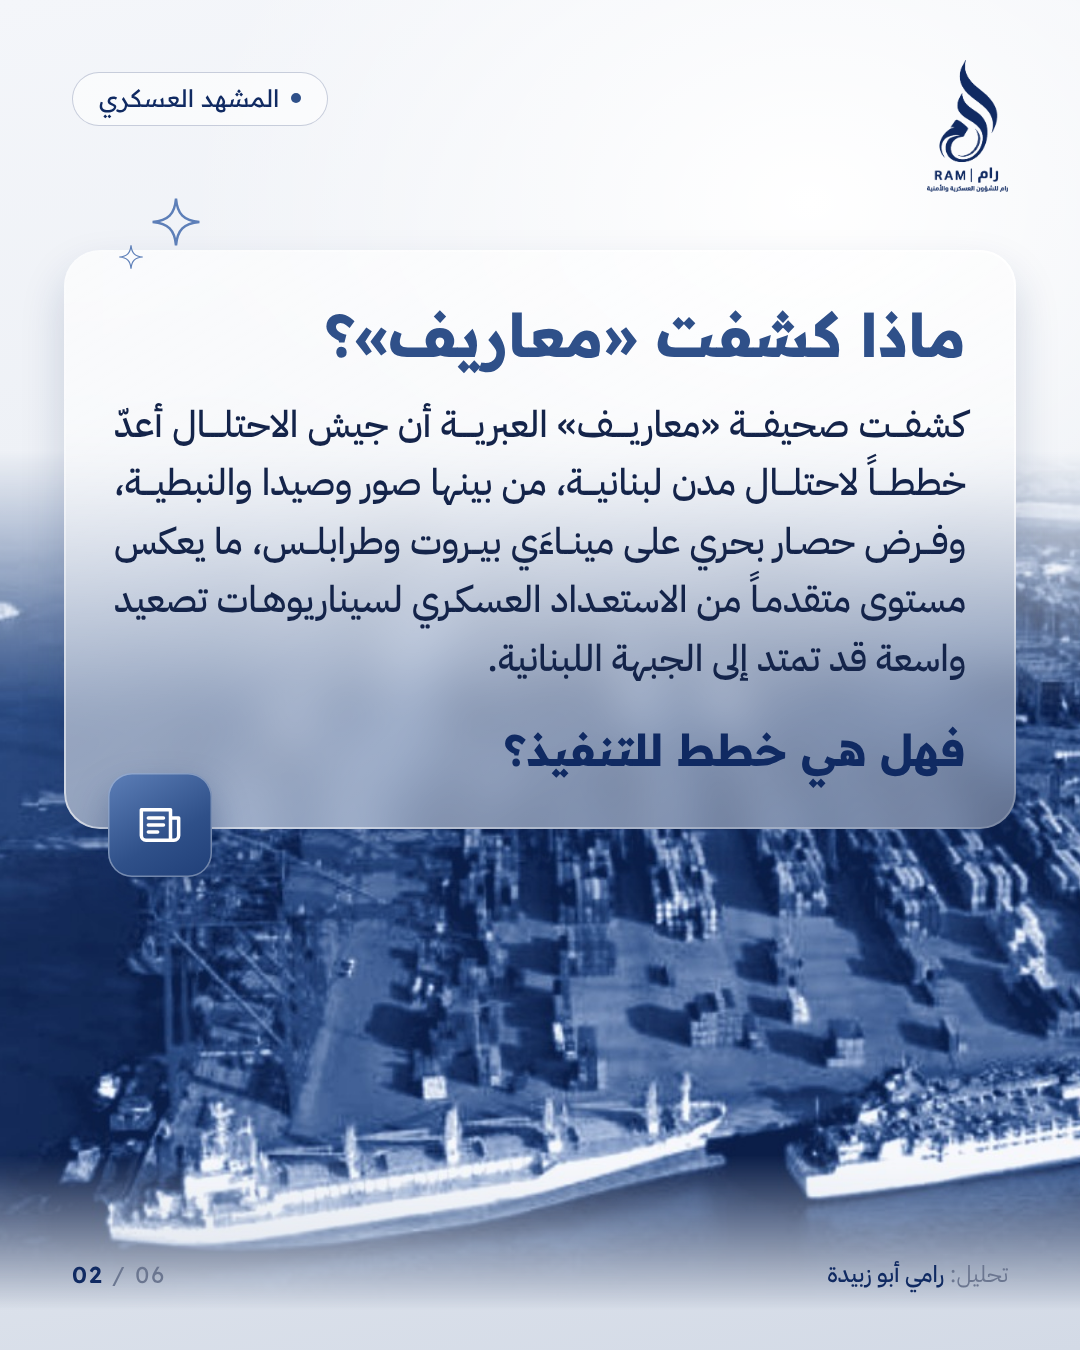
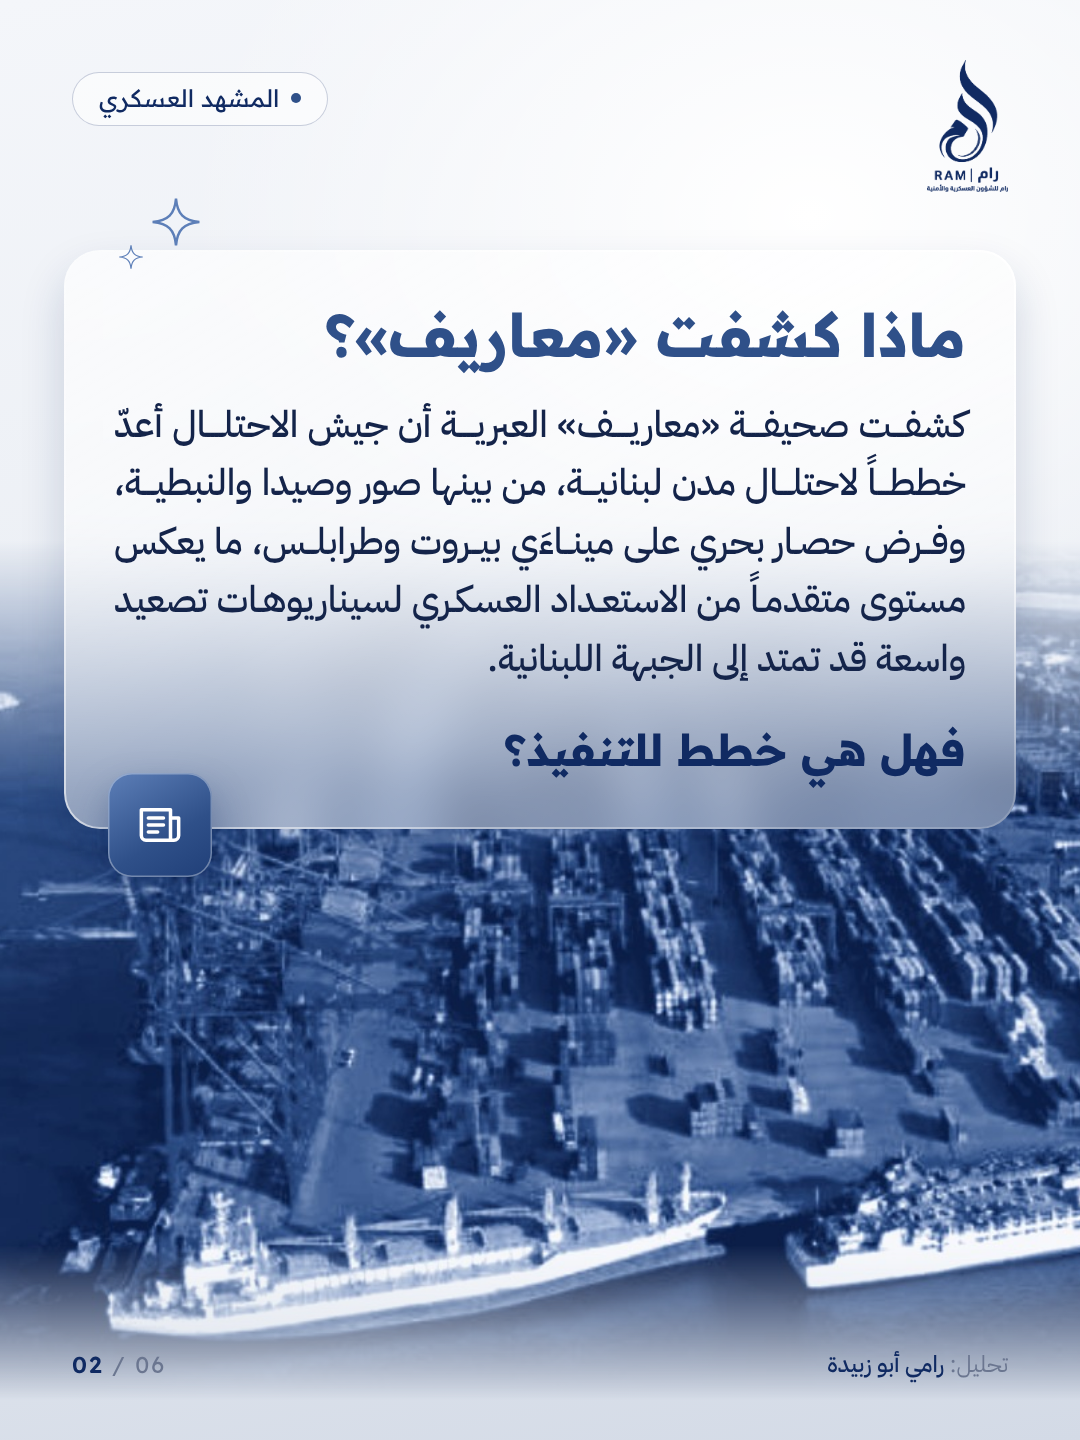
3:4 Instagram format (1080x1440) with 2x high-res export
Claude-Session: https://claude.ai/code/session_01EW5L56NuYcnMJVgEDoh2db

diff --git a/carousel/carousel.html b/carousel/carousel.html
@@ -19,7 +19,7 @@
 *{box-sizing:border-box;margin:0;padding:0}
 body{background:#333;font-family:var(--b);color:#fff;display:flex;flex-direction:column;align-items:center;gap:40px;padding:40px 0}
 
-.slide{width:1080px;height:1350px;position:relative;overflow:hidden;
+.slide{width:1080px;height:1440px;position:relative;overflow:hidden;
   background:radial-gradient(700px 520px at 85% 8%,rgba(47,80,137,.55),transparent 70%),linear-gradient(180deg,#0E2455 0%,#0A1B42 45%,#071530 100%)}
 .slide::before{content:"";position:absolute;inset:0;pointer-events:none;z-index:0;
   background:repeating-linear-gradient(90deg,rgba(147,159,173,.06) 0 1px,transparent 1px 90px),repeating-linear-gradient(0deg,rgba(147,159,173,.06) 0 1px,transparent 1px 90px);
@@ -114,7 +114,7 @@ body{background:#333;font-family:var(--b);color:#fff;display:flex;flex-direction
 /* ===== غلاف سينمائي ===== */
 .cover{background:#050D22}
 .cover::before{display:none}
-.cv-photo{position:absolute;inset:0;z-index:0;background:url(photos/sidon-cine.jpg) 58% 0/auto 1500px no-repeat;filter:contrast(1.05) saturate(1.1)}
+.cv-photo{position:absolute;inset:0;z-index:0;background:url(photos/sidon-cine.jpg) 58% 0/auto 1600px no-repeat;filter:contrast(1.05) saturate(1.1)}
 .cv-photo::after{content:"";position:absolute;inset:0;background:
   radial-gradient(120% 80% at 50% 40%,transparent 35%,rgba(3,8,22,.85) 100%),
   linear-gradient(180deg,rgba(5,13,34,.75) 0%,rgba(5,13,34,.05) 22%,rgba(5,13,34,0) 38%,rgba(5,13,34,.9) 54%,#050D22 72%)}
@@ -181,7 +181,7 @@ body{background:#333;font-family:var(--b);color:#fff;display:flex;flex-direction
       <g transform="translate(935,720) scale(2.2)"><path d="M2.5 15.5h19l-2.6 4.2H5.1z M6 15.5v-3.8h11v3.8 M9 11.7V8.6h5v3.1 M11.5 8.6V5.2" fill="none" stroke="#fff" stroke-width="1.5" stroke-linejoin="round" stroke-linecap="round"/></g>
     </g>
     <!-- علامة الاستهداف فوق المدينة -->
-    <g transform="translate(480,445) scale(.86)" filter="url(#glow)">
+    <g transform="translate(480,480) scale(.9)" filter="url(#glow)">
       <circle r="150" fill="url(#rg)"/>
       <circle r="118" fill="none" stroke="#fff" stroke-width="2" opacity=".85"/>
       <circle r="150" fill="none" stroke="#E9EDF3" stroke-width="1.5" stroke-dasharray="4 10" opacity=".7"/>
@@ -191,7 +191,7 @@ body{background:#333;font-family:var(--b);color:#fff;display:flex;flex-direction
       <path d="M-84 -84 l0 26 M-84 -84 l26 0 M84 -84 l0 26 M84 -84 l-26 0 M-84 84 l0 -26 M-84 84 l26 0 M84 84 l0 -26 M84 84 l-26 0" stroke="#AFC3E6" stroke-width="2.5" stroke-linecap="round"/>
     </g>
     <g font-family="Readex" font-weight="400" font-size="22" fill="#E9EDF3" letter-spacing="3" direction="ltr" filter="url(#glow)">
-      <text x="640" y="330">صيدا · صور · النبطية</text>
+      <text x="640" y="355">صيدا · صور · النبطية</text>
     </g>
   </svg>
   <div class="cv-grain"></div>
@@ -199,7 +199,7 @@ body{background:#333;font-family:var(--b);color:#fff;display:flex;flex-direction
   <img class="logo" src="assets/logo-white-full.png" alt="رام">
   <div class="tag"><i></i>المشهد العسكري</div>
 
-  <div class="tb" style="top:705px">
+  <div class="tb" style="top:775px">
     <div class="tbi" style="--ts:70px">
       <div class="kick"><span>التهديد باحتلال مدن لبنانية وحصار الموانئ..</span></div>
       <div class="ln"><span class="k">رسائل الردع الإسرائيلية</span></div>
@@ -258,17 +258,17 @@ body{background:#333;font-family:var(--b);color:#fff;display:flex;flex-direction
 
 <!-- ============ 4. ============ -->
 <section class="slide light" id="s4">
-  <div class="photo" style="height:640px;background-image:url(photos/dome-light.jpg);background-position:center 35%;-webkit-mask:linear-gradient(180deg,transparent 0%,#000 30%,#000 82%,transparent 100%);mask:linear-gradient(180deg,transparent 0%,#000 30%,#000 82%,transparent 100%);top:140px;bottom:auto"></div>
+  <div class="photo" style="height:720px;background-image:url(photos/dome-light.jpg);background-position:center 35%;-webkit-mask:linear-gradient(180deg,transparent 0%,#000 30%,#000 82%,transparent 100%);mask:linear-gradient(180deg,transparent 0%,#000 30%,#000 82%,transparent 100%);top:140px;bottom:auto"></div>
   <img class="logo" src="assets/logo-navy-full.png" alt="رام">
   <div class="tag"><i></i>المشهد العسكري</div>
-  <div class="gcard" style="top:575px">
+  <div class="gcard" style="top:640px">
     <div class="atitle">المعضلة الإسرائيلية</div>
     <div class="jp">تكمن المعضلة الإسرائيلية في كيفية تجنّب الانزلاق إلى حرب متعددة الجبهات، في الوقت الذي تستعد فيه لاحتمالات اتساع المواجهة، وهو ما يضع قدراتها العسكرية أمام اختبار معقد. ومن هنا يمكن قراءة التهديدات كمحاولة لتحييد حزب الله مسبقاً، برفع كلفة تدخله في أي مواجهة ضد إيران.</div>
     <div class="hook">فلماذا هذه المدن تحديداً؟</div>
     <div class="gbadge" style="right:48px;top:-50px"><svg viewBox="0 0 24 24" fill="none" stroke="#fff" stroke-width="1.5" stroke-linecap="round" stroke-linejoin="round"><path d="M12 4v15.5 M8 19.5h8 M5 7.5h14 M5 7.5l-2.6 5.5h5.2z M19 7.5l-2.6 5.5h5.2z"/></svg></div>
   </div>
-<svg class="spark2" style="left:820px;top:470px" width="52" height="52" viewBox="0 0 40 40"><path d="M20 2 C21 14 26 19 38 20 C26 21 21 26 20 38 C19 26 14 21 2 20 C14 19 19 14 20 2Z" fill="none" stroke="#5D7FB8" stroke-width="1.9"/></svg>
-<svg class="spark2" style="left:890px;top:515px" width="24" height="24" viewBox="0 0 40 40"><path d="M20 2 C21 14 26 19 38 20 C26 21 21 26 20 38 C19 26 14 21 2 20 C14 19 19 14 20 2Z" fill="none" stroke="#5D7FB8" stroke-width="1.9"/></svg>
+<svg class="spark2" style="left:820px;top:535px" width="52" height="52" viewBox="0 0 40 40"><path d="M20 2 C21 14 26 19 38 20 C26 21 21 26 20 38 C19 26 14 21 2 20 C14 19 19 14 20 2Z" fill="none" stroke="#5D7FB8" stroke-width="1.9"/></svg>
+<svg class="spark2" style="left:890px;top:580px" width="24" height="24" viewBox="0 0 40 40"><path d="M20 2 C21 14 26 19 38 20 C26 21 21 26 20 38 C19 26 14 21 2 20 C14 19 19 14 20 2Z" fill="none" stroke="#5D7FB8" stroke-width="1.9"/></svg>
   <div class="foot">
     <div>تحليل: <b>رامي أبو زبيدة</b></div>
     <div class="pg"><em>04</em> / 06</div>
